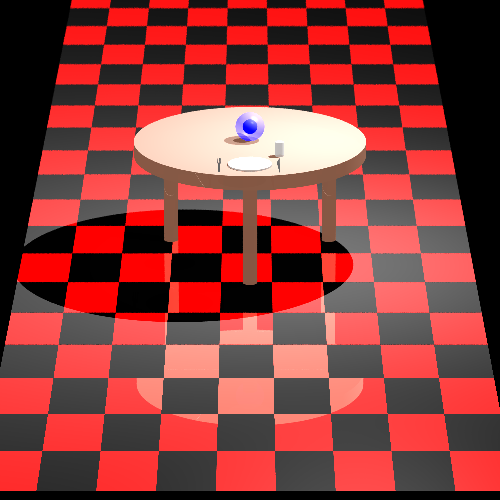
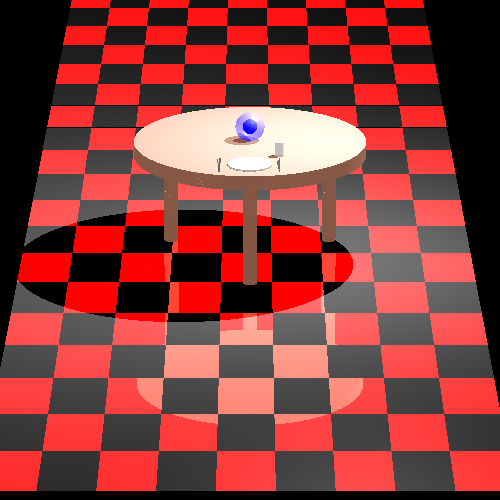
anti-aliasing improvement

diff --git a/src/renderer/Camera.java b/src/renderer/Camera.java
@@ -236,7 +236,7 @@ private Random random = new Random();
             for (int i = 0; i < nY; i++) {
 
                 for (int j = 0; j < nX; j++) {
-                    _imageWriter.writePixel(j, i, castRayDepth(nY, nX, j, i));
+                    _imageWriter.writePixel(j, i, castRays_AntiAliasing(nY, nX, j, i));
                 }
             }
         } catch (MissingResourceException e) {
@@ -334,63 +334,81 @@ double d =random(0,360);
         return averageColor(color,i);
     }
 
-    /**
-     * This function get a ray launched in the center of a pixel and launch a beam n * m others rays
-     * on the same pixel
-     *
-     * @param nX  number of pixels in a row of view plane
-     * @param nY  number of pixels in a column of view plane
-     * @param n   number of the rays to launch in pixel
-     * @param m   number of the ray to launch in the pixel
-     * @param ray the ray that it is already launched in the center of the pixel
-     * @return list of rays when every ray is launched inside a pixel with random emplacement
-     */
-    public List<Ray> constructRaysGridFromRay(int nX, int nY, int n, int m, Ray ray) {
 
-        Point p0 = ray.getPoint(_distance); //center of the pixel
+
+    public List <Ray> constructRays(int nX, int nY, int j, int i) {
+        double Ry = (double) _height / nY;
+        double Rx = (double) _width / nX;
+
+        // Image center
+        Point Pc = _p0.add(_vTo.scale(_distance));
+
+        Point Pij = Pc;
+
+        double yI = -(i - ((nY - 1) / 2d)) * Ry;
+        double xJ = (j - ((nX - 1) / 2d)) * Rx;
+
+        if (xJ != 0)
+            Pij = Pij.add(_vRight.scale(xJ));
+        if (yI != 0)
+            Pij = Pij.add(_vUp.scale(yI));
+
         List<Ray> myRays = new LinkedList<>(); //to save all the rays
-
-        double pixelHeight = alignZero(_height / nY);
-        double pixelHWidth = alignZero(_width / nX);
 
         //We call the function constructRayThroughPixel like we used to but this time we launch m * n ray in the same pixel
 
-        for (int i = 0; i < n; i++) {
-            for (int j = 0; j < m; j++) {
-                myRays.add(constructRayThroughPixel(m, n, j, i, pixelHeight, pixelHWidth, p0));
-            }
+        for (int k = 0; k < 1000; k++) {
+            Point tmp = Pij;
+            myRays.add(constructRayThroughPixel(nX, nY, Pij));
+            Pij = tmp;
         }
 
         return myRays;
     }
 
+
+
     /**
-     * The function constructs a ray from Camera location through a point (i,j) on the grid of a
-     * pixel in the view plane
+     * The function casts rays from the camera to the scene, and returns the color of the pixel (anti-aliasing)
      *
-     * @param m      grid's height
-     * @param n      grid's width
-     * @param j      number of the pixel in the row
-     * @param i      number of the pixel in the column
-     * @param pixelH height of the pixel
-     * @param pixelW width of the pixel
-     * @param pc     pixel center
-     * @return the ray through pixel's center
+     * @param nX the number of pixels in the X axis
+     * @param nY the number of pixels in the y direction
+     * @param j the x coordinate of the pixel in the image
+     * @param i the current pixel's row
+     * @return The color of the pixel.
      */
-    private Ray constructRayThroughPixel(int m, int n, double j, double i, double pixelH, double pixelW, Point pc) {
+    private Color castRays_AntiAliasing(int nX, int nY, int j, int i) {
+        List <Ray> rays = constructRays(nX, nY, j, i);
+        Color color = Color.BLACK;
+        int d;
+        for (Ray ray : rays) {
+            color = color.add(_rayTracer.traceRay(ray));
+        }
+        return averageColor(color, rays.size());
+    }
+
+
+    /**
+     * We start from the center of the pixel and move randomly in the pixel to get the point
+     *
+     * @param nX number of pixels in the width
+     * @param nY number of pixels in the height
+     * @param pc the center of the pixel
+     * @return A ray from the camera to the center of the pixel.
+     */
+    private Ray constructRayThroughPixel(int nX, int nY, Point pc) {
 
         Point pIJ = pc;
-
         //Ry = height / nY : height of a pixel
-        double rY = pixelH / n;
+        double rY = (double) _height / nY;
         //Ry = weight / nX : width of a pixel
-        double rX = pixelW / m;
+        double rX = (double) _width / nX;
         //xJ is the value of width we need to move from center to get to the point
         //we get to the bottom/top of the pixel and then we move randomly in the pixel to get the point
-        double xJ = ((j + random.nextDouble() / (random.nextBoolean() ? 2 : -2)) - ((m - 1) / 2d)) * rX;
+        double xJ = random.nextDouble () * (rX/ (random.nextBoolean()?2:-2));
         //yI is the value of height we need to move from center to get to the point
         //we get to the side of the pixel and then we move randomly in the pixel to get the point
-        double yI = -((i + random.nextDouble() / (random.nextBoolean() ? 2 : -2)) - ((n - 1) / 2d)) * rY;
+        double yI = random.nextDouble ()* (rY/ (random.nextBoolean()?2:-2));
 
         if (xJ != 0) {
             pIJ = pIJ.add(_vRight.scale(xJ));
@@ -401,7 +419,9 @@ double d =random(0,360);
 
         //get vector from camera p0 to the point
         Vector vIJ = pIJ.substract(_p0);
-
+        Color c = _rayTracer.traceRay(new Ray(_p0, vIJ));
+        if(!c.equals(Color.BLACK))
+            c = c;
         //return ray to the center of the pixel
         return new Ray(_p0, vIJ);
 

diff --git a/src/renderer/ImageWriter.java b/src/renderer/ImageWriter.java
@@ -18,7 +18,9 @@ import javax.imageio.*;
  * @author Dan
  */
 public class ImageWriter {
+	// A private variable that is used to store the number of pixels in the x direction.
 	private int _nX;
+	// A private variable that is used to store the number of pixels in the y direction.
 	private int _nY;
 
 	private static final String FOLDER_PATH = System.getProperty("user.dir") + "/images";
